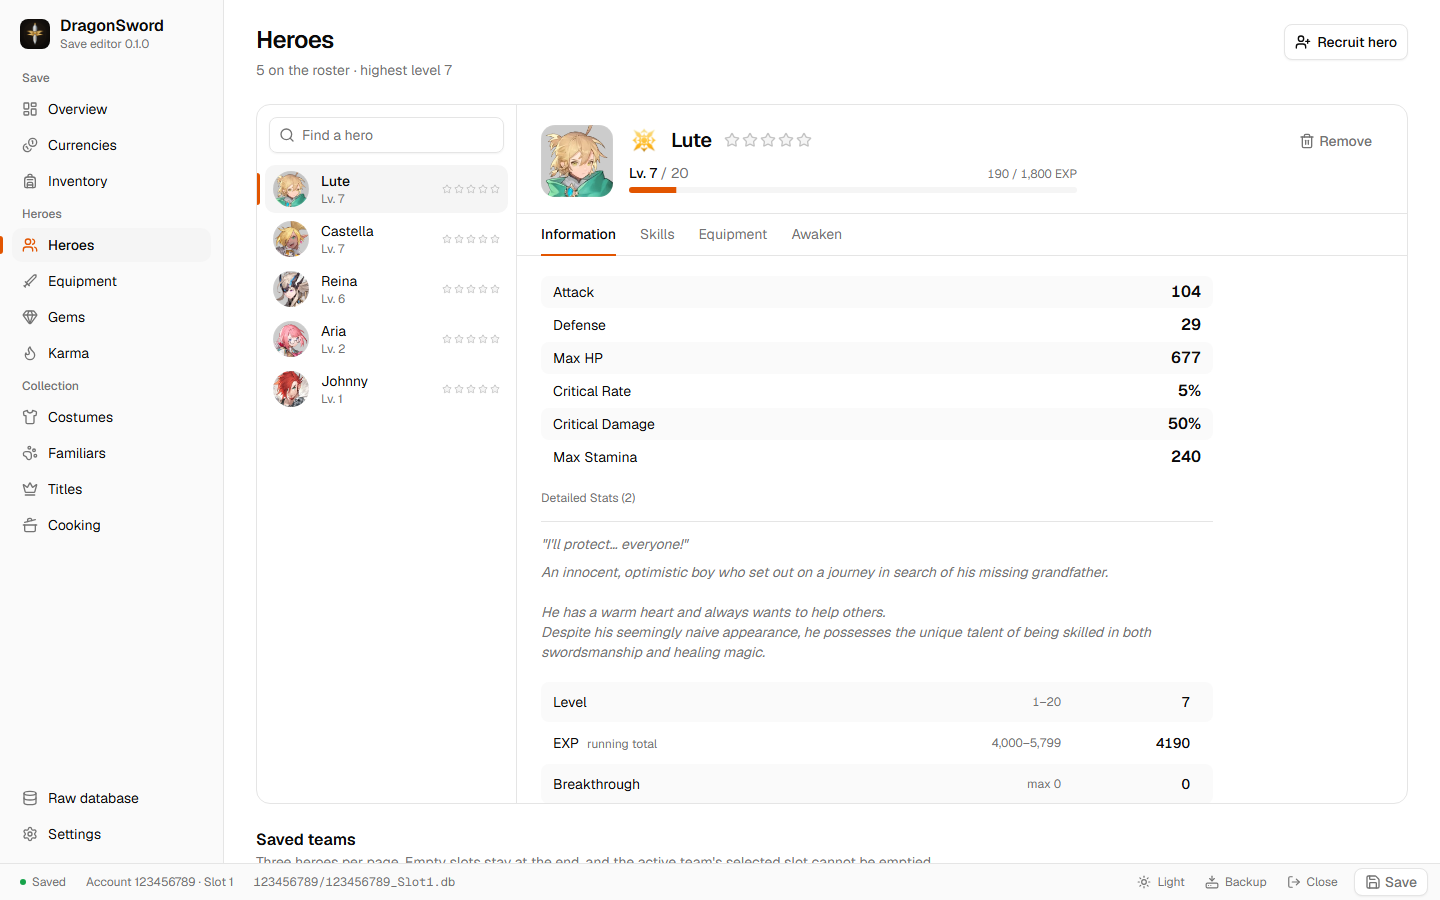
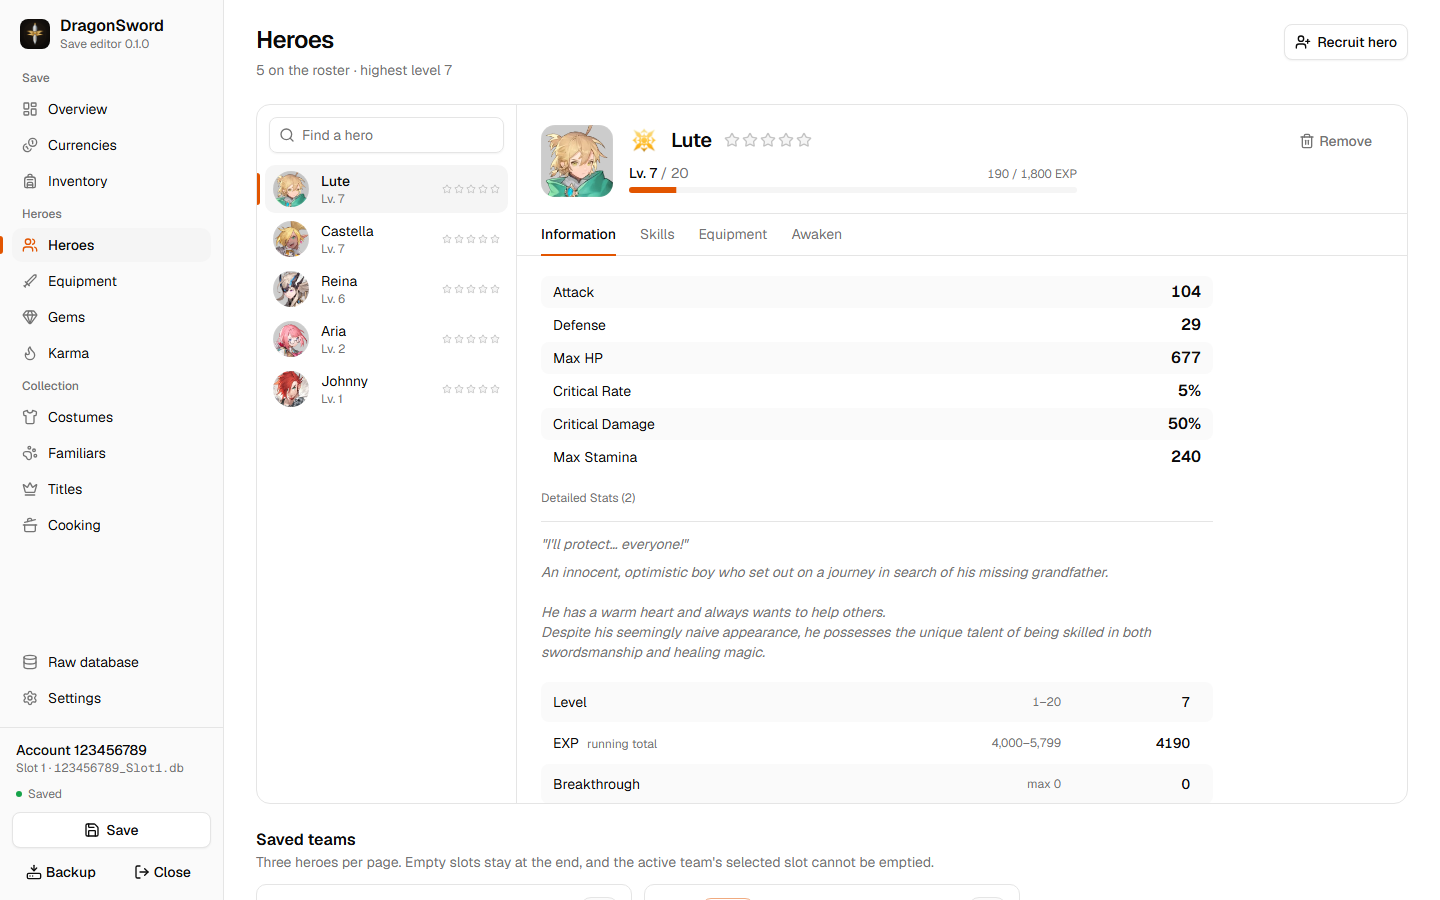
Move the save's state and actions from a status bar to the sidebar's foot
The open save, its state, a full-width Save and then Backup and Close now sit under the screens list, so screens get the full height and Save leads instead of trailing Close. The theme switch is gone from here; it stays in Settings. The README screenshots show the new layout.

diff --git a/apps/desktop/src/components/save-panel.tsx b/apps/desktop/src/components/save-panel.tsx
@@ -1,0 +1,153 @@
+import { HardDriveDownload, LogOut, Save, TriangleAlert } from 'lucide-react';
+import { useState } from 'react';
+import { Button } from '@/components/ui/button';
+import {
+  Dialog,
+  DialogContent,
+  DialogDescription,
+  DialogFooter,
+  DialogHeader,
+  DialogTitle,
+} from '@/components/ui/dialog';
+import { Spinner } from '@/components/ui/spinner';
+import { useApp } from '@/lib/store';
+import { cn } from '@/lib/utils';
+
+// The open save at the foot of the sidebar: which file it is, whether it has
+// unsaved changes or something running, then Save, Backup and Close.
+export function SavePanel() {
+  const save = useApp((state) => state.save);
+  const dirty = useApp((state) => state.dirty);
+  const draftCount = useApp((state) => state.draftCount);
+  const pending = useApp((state) => state.pending);
+  const saveNow = useApp((state) => state.saveNow);
+  const backupNow = useApp((state) => state.backupNow);
+  const closeCurrent = useApp((state) => state.closeCurrent);
+  const discardCurrent = useApp((state) => state.discardCurrent);
+  const setSection = useApp((state) => state.setSection);
+  const [closeOpen, setCloseOpen] = useState(false);
+
+  if (!save) return null;
+
+  const hasChanges = dirty || draftCount > 0;
+  const writing = pending === 'Writing save';
+  const { danglingGemLinks, duplicateGemLinks, teamIssues } = save.consistency;
+  const issues = danglingGemLinks.length + duplicateGemLinks.length + teamIssues.length;
+  const file = save.path.split(/[\\/]/).pop();
+
+  return (
+    <div className="flex flex-col gap-2 border-t px-3 pt-3 pb-3">
+      <div className="min-w-0 px-1" title={save.path}>
+        <div className="truncate text-sm font-medium">Account {save.accountId}</div>
+        <div className="truncate text-xs text-muted-foreground">
+          Slot {save.slot} · <span className="font-mono">{file}</span>
+        </div>
+      </div>
+
+      <div className="flex min-h-5 items-center gap-1.5 px-1 text-xs text-muted-foreground">
+        {pending ? (
+          <>
+            <Spinner className="size-3.5" />
+            <span className="truncate">{pending}</span>
+          </>
+        ) : (
+          <>
+            <span
+              aria-hidden
+              className={cn(
+                'size-1.5 shrink-0 rounded-full',
+                hasChanges ? 'bg-brand shadow-[0_0_6px_var(--brand)]' : 'bg-ok',
+              )}
+            />
+            <span className={cn(hasChanges && 'font-medium text-foreground')}>
+              {hasChanges ? 'Unsaved changes' : 'Saved'}
+            </span>
+          </>
+        )}
+      </div>
+
+      {issues > 0 && (
+        <button
+          type="button"
+          className="flex items-center gap-1.5 rounded-md px-1 text-left text-xs font-medium text-warn-strong hover:bg-accent"
+          title="Broken links between rows, found when the save was opened"
+          onClick={() => setSection('overview')}
+        >
+          <TriangleAlert aria-hidden className="size-3.5 shrink-0" />
+          {issues} {issues === 1 ? 'issue' : 'issues'}
+        </button>
+      )}
+
+      <Button
+        variant={hasChanges ? 'default' : 'outline'}
+        className={cn('w-full', hasChanges && 'bg-brand text-brand-foreground hover:bg-brand/90')}
+        disabled={writing}
+        title="Write the save file (Ctrl+S)"
+        onClick={() => void saveNow()}
+      >
+        {writing ? <Spinner /> : <Save />}
+        {writing ? 'Writing…' : 'Save'}
+      </Button>
+      <div className="grid grid-cols-2 gap-1">
+        <Button variant="ghost" size="sm" title="Write a backup copy now (Ctrl+B)" onClick={() => void backupNow()}>
+          <HardDriveDownload />
+          Backup
+        </Button>
+        <Button
+          variant="ghost"
+          size="sm"
+          title="Close this save"
+          onClick={() => {
+            const state = useApp.getState();
+            if (state.dirty || state.draftCount > 0 || (state.pending !== null && state.pending !== 'Copying backup')) {
+              setCloseOpen(true);
+            } else {
+              void closeCurrent();
+            }
+          }}
+        >
+          <LogOut />
+          Close
+        </Button>
+      </div>
+
+      <Dialog open={closeOpen} onOpenChange={setCloseOpen}>
+        <DialogContent>
+          <DialogHeader>
+            <DialogTitle>Close this save?</DialogTitle>
+            <DialogDescription>
+              You have unsaved changes. Saving writes the encrypted file and keeps a timestamped backup. Discarding
+              leaves the original file untouched.
+            </DialogDescription>
+          </DialogHeader>
+          <DialogFooter className="gap-2 sm:justify-between">
+            <Button variant="ghost" onClick={() => setCloseOpen(false)}>
+              Cancel
+            </Button>
+            <div className="flex gap-2">
+              <Button
+                variant="outline"
+                onClick={() => {
+                  setCloseOpen(false);
+                  void discardCurrent();
+                }}
+              >
+                Discard changes
+              </Button>
+              <Button
+                onClick={async () => {
+                  if (await saveNow()) {
+                    setCloseOpen(false);
+                    await closeCurrent();
+                  }
+                }}
+              >
+                Save and close
+              </Button>
+            </div>
+          </DialogFooter>
+        </DialogContent>
+      </Dialog>
+    </div>
+  );
+}

diff --git a/apps/desktop/src/components/sidebar.tsx b/apps/desktop/src/components/sidebar.tsx
@@ -1,9 +1,10 @@
+import { SavePanel } from '@/components/save-panel';
 import { NAV_GROUPS, NAV_ITEMS } from '@/lib/nav';
 import { useApp } from '@/lib/store';
 import { cn } from '@/lib/utils';
 
 // The screens, grouped the way the game's own menus split them, each with
-// how many rows of its kind the save holds.
+// how many rows of its kind the save holds, above the open save's panel.
 export function Sidebar() {
   const section = useApp((state) => state.section);
   const setSection = useApp((state) => state.setSection);
@@ -58,6 +59,8 @@ export function Sidebar() {
           </div>
         ))}
       </div>
+
+      <SavePanel />
     </nav>
   );
 }

diff --git a/apps/desktop/src/app.tsx b/apps/desktop/src/app.tsx
@@ -3,7 +3,6 @@ import { AppWindow, FolderOpen, ShieldCheck, Terminal } from 'lucide-react';
 import { type ReactElement, type ReactNode, useEffect, useRef, useState } from 'react';
 import { toast } from 'sonner';
 import { Sidebar } from '@/components/sidebar';
-import { StatusBar } from '@/components/status-bar';
 import { Button } from '@/components/ui/button';
 import {
   Dialog,
@@ -173,7 +172,6 @@ export function App() {
           )}
         </div>
       </div>
-      <StatusBar />
 
       <Dialog
         open={closeRequestOpen}

diff --git a/docs/guide.md b/docs/guide.md
@@ -41,7 +41,7 @@ Existing values above a cap stay editable, and every field uses `max(cap, curren
 
 ## Editing
 
-Every screen edits only the open temporary copy. The status bar at the bottom shows **Unsaved changes** until you save, and holds **Save** (Ctrl+S), **Backup** (Ctrl+B), **Close** and the theme switch. The sidebar shows how many rows of each kind the save holds.
+Every screen edits only the open temporary copy. The foot of the sidebar shows the open save and **Unsaved changes** until you save, with **Save** (Ctrl+S), **Backup** (Ctrl+B) and **Close** below it. The theme is in **Settings**. The sidebar shows how many rows of each kind the save holds.
 
 ### Overview
 
